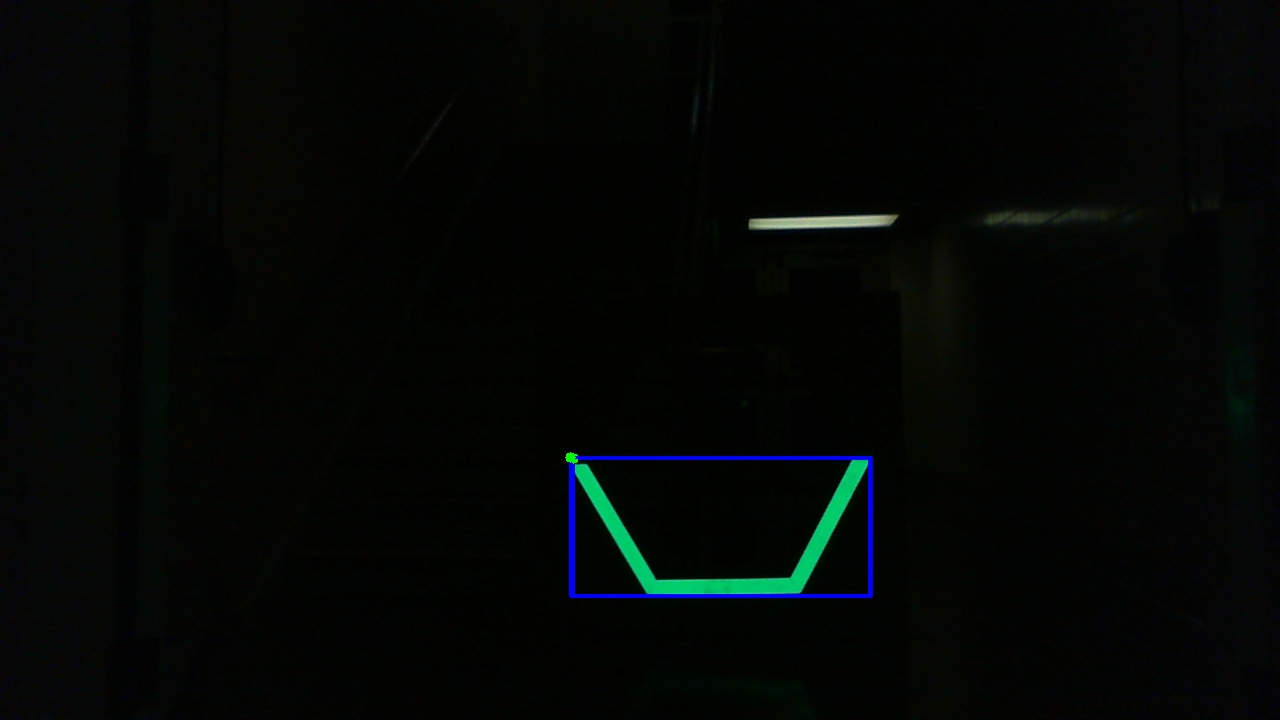
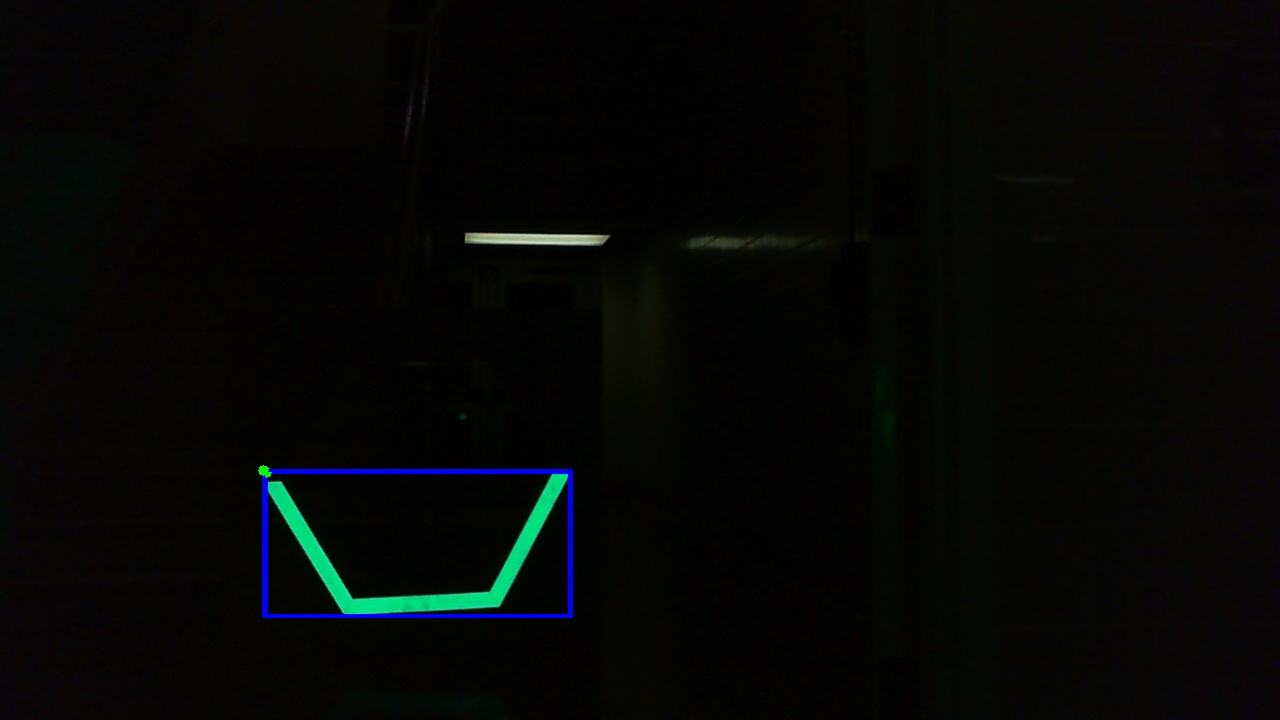
changes

diff --git a/cameraTest.py b/cameraTest.py
@@ -8,7 +8,7 @@ def change_res(width, height):
 
 # cap = cv2.VideoCapture(0, cv2.CAP_V4L)
 cap = cv2.VideoCapture(0)
-cap.set(cv2.CV_CAP_PROP_EXPOSURE, -100)
+# cap.set(cv2.CV_CAP_PROP_EXPOSURE, -100)
 change_res(1280, 720)
 frame_width = cap.get(cv2.CAP_PROP_FRAME_WIDTH)
 frame_height = cap.get(cv2.CAP_PROP_FRAME_HEIGHT)
